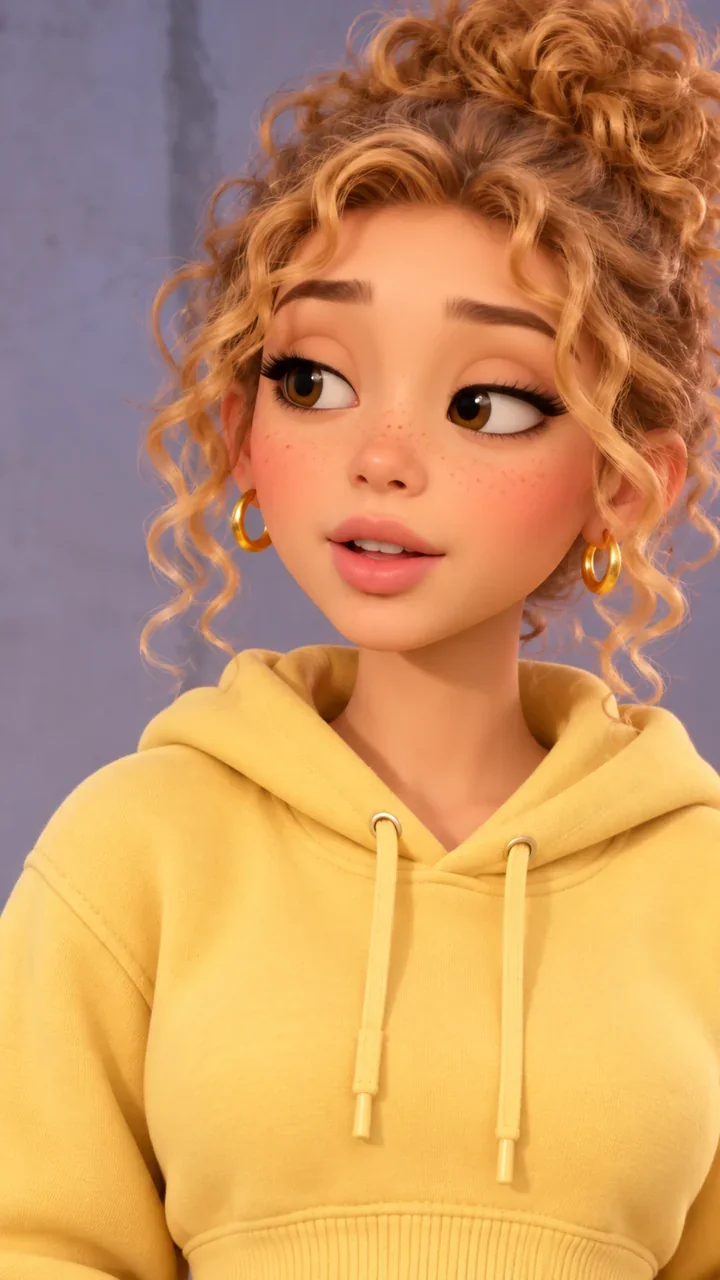
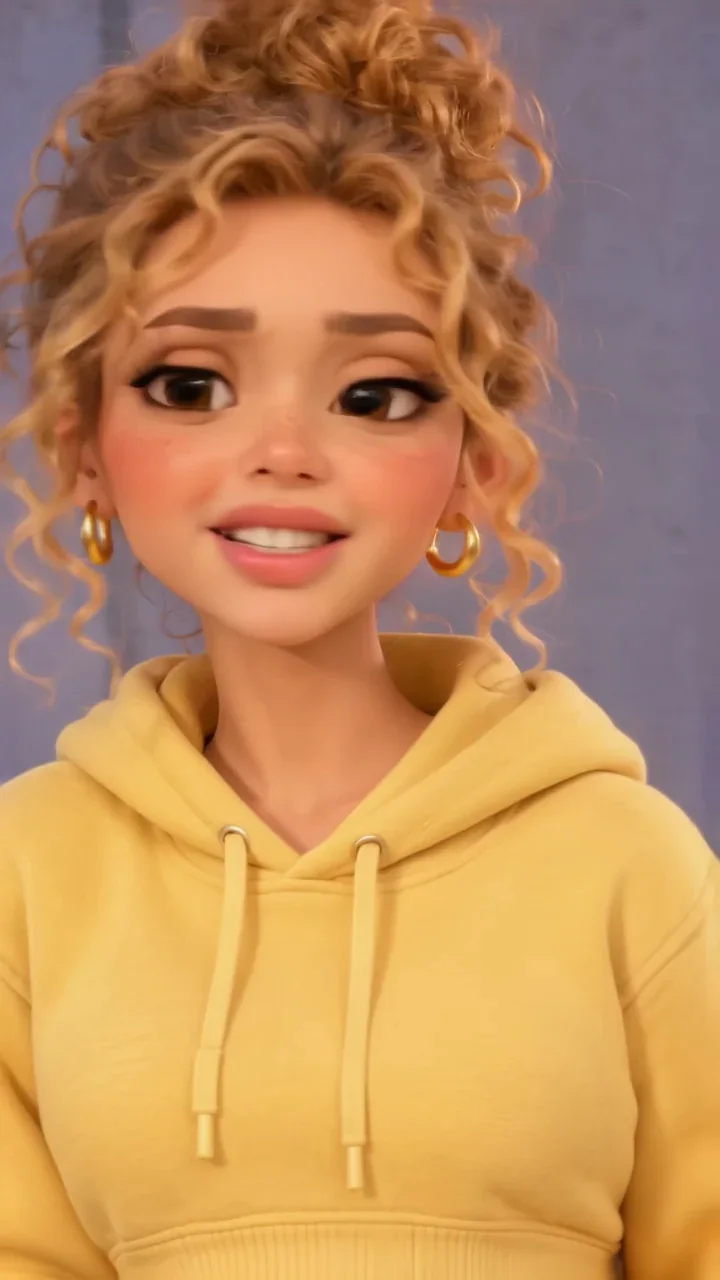
Face Dance shows Josie's own version: its preview plays on the card and its cover is her

diff --git a/web/js/mixer-trends.js b/web/js/mixer-trends.js
@@ -1117,6 +1117,7 @@ export const TRENDS = [
     },
     "caption": null,
     "aspect": "9:16",
+    "preview": "brand/mixer/trends/face-dance/preview.mp4",
     "poster": "brand/mixer/trends/face-dance/poster.webp",
     "recipe": "brand/mixer/trends/face-dance/recipe.json",
     "made": {
